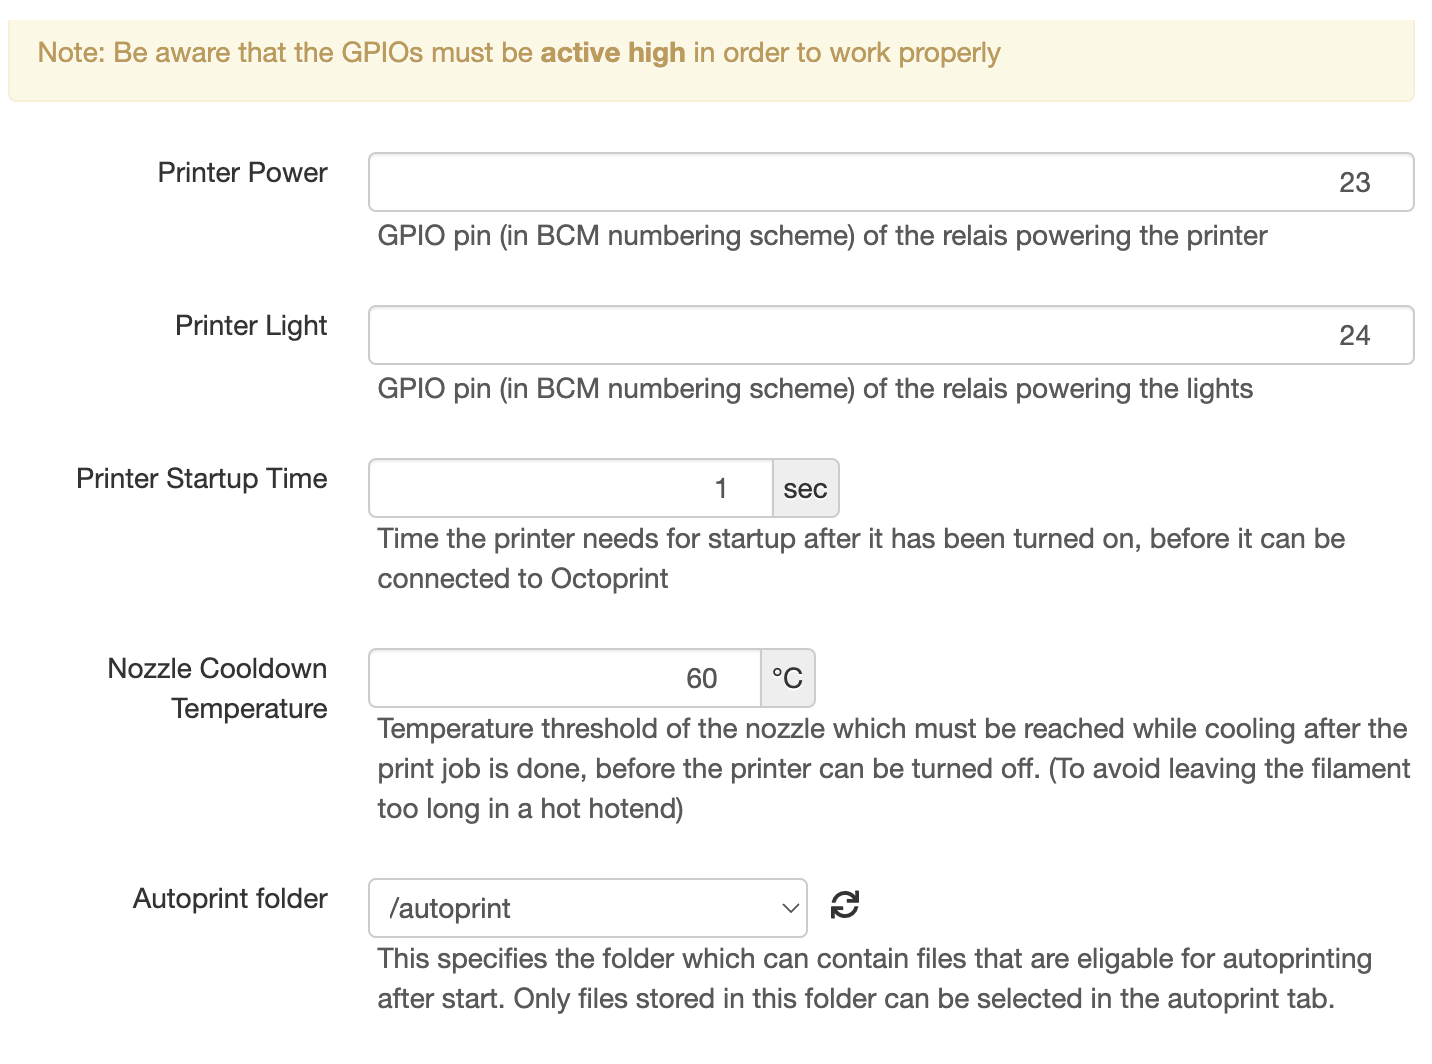
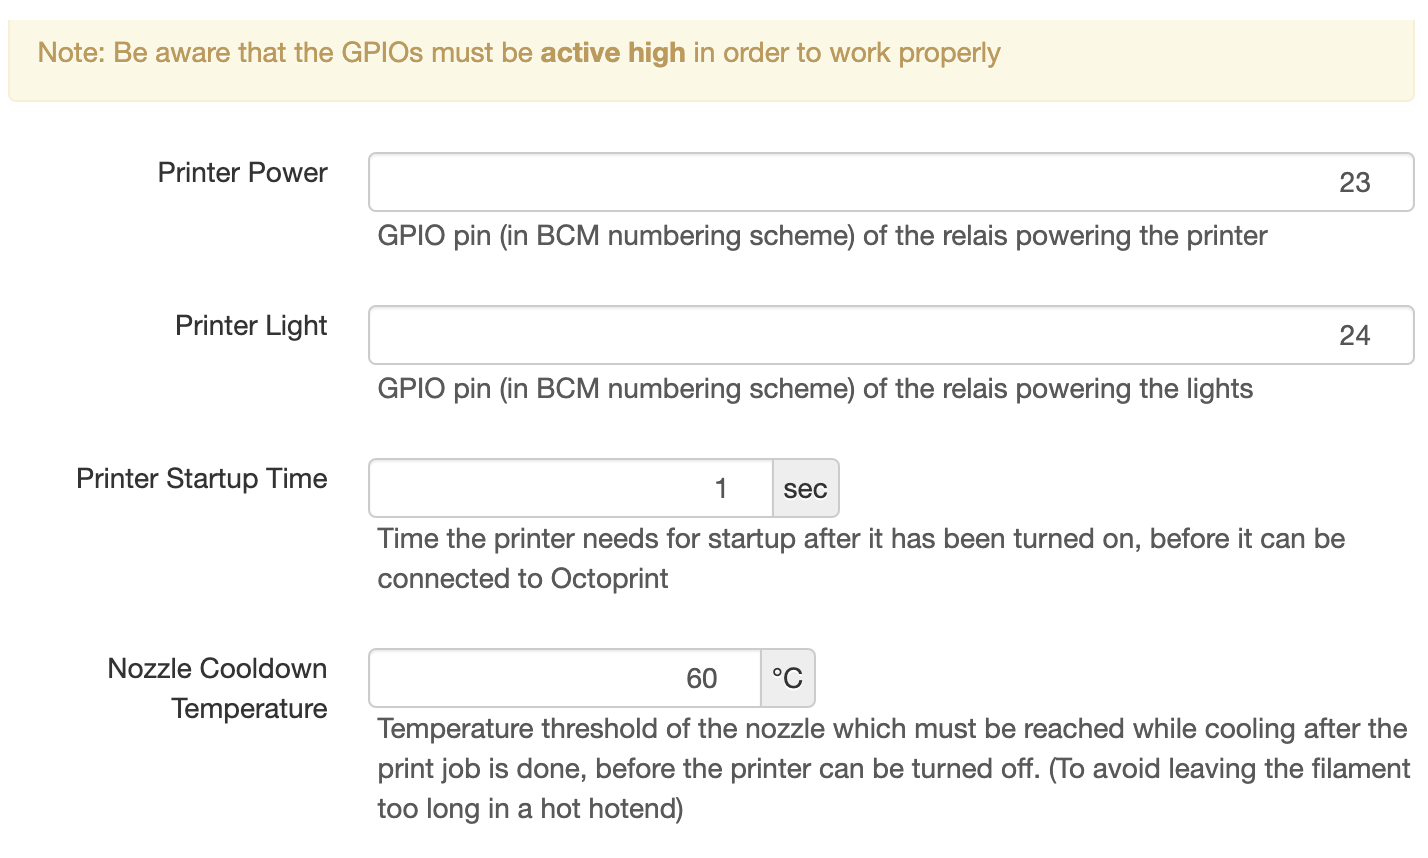
Updated documentation to reflect change of print folder

diff --git a/extras/autoprint.md b/extras/autoprint.md
@@ -77,7 +77,6 @@ The plugin can be configured with the following parameters (see also screenshot 
 | Printer Light               | GPIO Pin Number (BCM) | GPIO Pin triggering the lights of the printer - should also be connected to a relay or a MOSFET turning on/off a led strip |
 | Printer Startup Time        | Seconds               | Time delay the plugins waits after starting up the printer before it tries to connect to it
 | Nozzle Cooldown Temperature | °C                    | After printing or when getting a shutdown command, the plugin waits until the nozzle has cold down below this threshold to avoid turning off the printer with a too hot hotend | 
-| Autoprint Folder            | Folder Name           | Folder where prints are stored which are eligable for autoprinting |
 
 ### Operations
 
@@ -115,7 +114,7 @@ During the cooldown process you can cancel the shutdown of the printer at any ti
 
 The plugin allows to schedule a print for a later time with the following options:
 
-- Select a file from a specific folder that has been defined in the settings
+- Select a file from a any folder 
 - Choose either the start or the end time
 - Check wether the printer should shutdown after the print has finished
 
